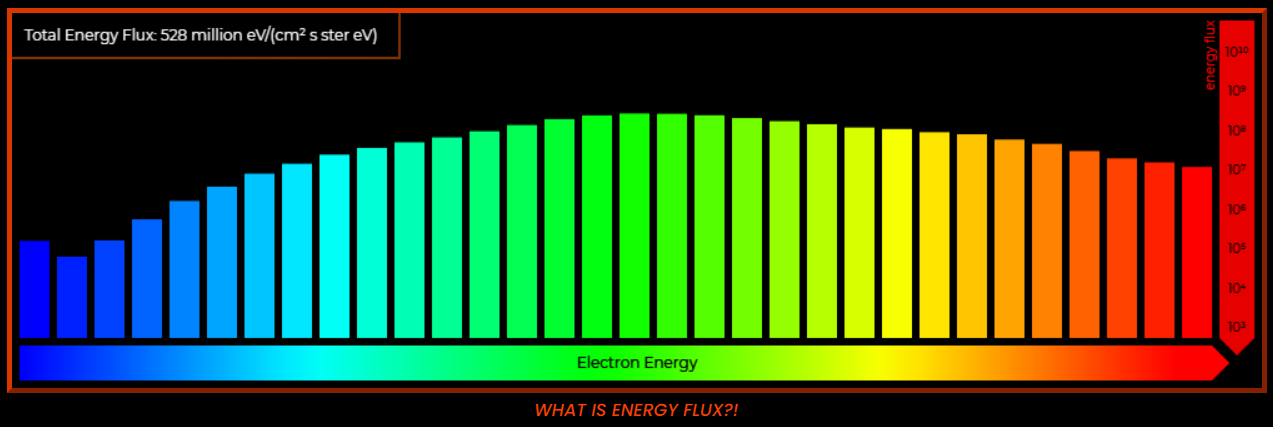
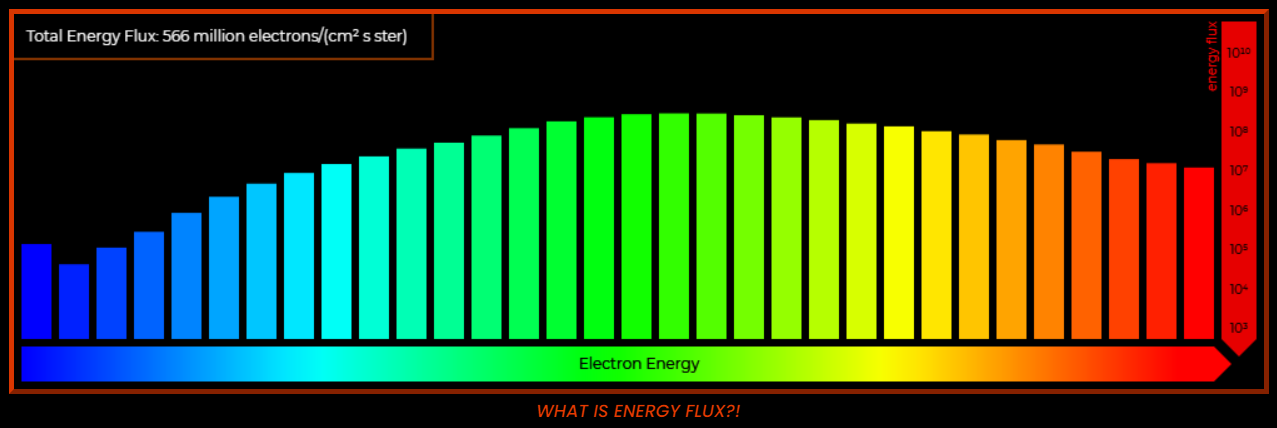
Finished revising SPAN-e
- Changed units of energy flux to be more comprehensible (electrons/(cm² s ster))
- Added a simple explanation for what energy represents
- Updated sweapelectrons.png

diff --git a/sweap_display.js b/sweap_display.js
@@ -298,10 +298,10 @@ https://codepen.io/aecend/pen/WbONyK
         ctx.fillStyle = "rgb(0,0,0)";
         ctx.fillRect(0, canvas_height-spacingh, canvas_width, spacingh);
 
-        var textw = 310;
+        var textw = 335;
         var texth = 36;
         if (sweapUnit == "wacky"){
-          textw = 290;
+          textw = 360;
         } 
         // Draws a text box
         ctx.fillStyle = "rgba(0,0,0,0.8)";
@@ -318,13 +318,13 @@ https://codepen.io/aecend/pen/WbONyK
         ctx.font = "12px Montserrat";
         ctx.textAlign = 'left';
         if (sweapUnit == "metric"){
-          ctx.fillText("Total Energy Flux: " + (totalflux/10e6).toFixed(0) + " million eV/(cm² s ster eV)", 10, 22);
+          ctx.fillText("Total Energy Flux: " + (totalflux/10e6).toFixed(0) + " million electrons/(cm² s ster)", 10, 22);
         } 
         else if (sweapUnit == "imperial"){
-          ctx.fillText("Total Energy Flux: " + (totalflux/10e6).toFixed(0) + " million eV/(cm² s ster eV)", 10, 22);
+          ctx.fillText("Total Energy Flux: " + (totalflux/10e6/2.54/2.54).toFixed(0) + " million electrons/(in² s ster)", 10, 22);
         } 
         else if (sweapUnit == "wacky"){
-          ctx.fillText("Total Energy Flux: " + (totalflux/10e6).toFixed(0) + " million eV/(cm² s ster eV)", 10, 22);
+          ctx.fillText("Total Energy Flux: " + (totalflux/10e6/1.555).toFixed(0) + " million electrons/(eardrum s ster)", 10, 22);
         } 
         // Create a linear gradient
         // The start gradient point is at x=20, y=0
@@ -706,21 +706,21 @@ instrumentselector.oninput = function(){
   if (sweapmode == "p"){ // Protons
     document.getElementById("sweapinstrument").style.backgroundImage = "url(public/SPC_instrument.jpg)";
     document.getElementById("sweapdescription").innerHTML = "The Solar Probe Cup (SPC) courageously stares straight into the sun, enduring temperatures that could melt away even steel and iron (over 3000°F / 1650°C) - all in order to measure the temperature, density, and velocity of protons and alpha particles in the solar wind (only data for protons is shown here).";
-    document.getElementById("fluxexplainer").style.opacity = 0;
+    document.getElementById("whatisflux").style.display = "none";
     slider2.max = spcList[orbit_ind2].length - 1; // changes slider range to match indices of the fits data points
     var dateind = spcdateList[orbit_ind2].indexOf(datetime);
   } 
   else if (sweapmode == "e") { // Electrons
     document.getElementById("sweapinstrument").style.backgroundImage = "url(public/SPANe_instrument.jpg)";
     document.getElementById("sweapdescription").innerHTML = "Both of the two Solar Probe ANalyzers (SPAN) measure electrons by sorting them into 32 different energy bins. SPAN-A points in the direction that the PSP is traveling, while SPAN-B points the opposite way. Together, their field of view covers almost the entire sky (except for what the heat shield blocks).";
-    document.getElementById("fluxexplainer").style.opacity = 1;
+    document.getElementById("whatisflux").style.display = "block";
     slider2.max = spaneList[orbit_ind2].length - 1; // changes slider range to match indices of the fits data points
     var dateind = spanedateList[orbit_ind2].indexOf(datetime);
   } 
   else if (sweapmode == "a") { // Alphas/Ions
     document.getElementById("sweapinstrument").style.backgroundImage = "url(public/SPANi_instrument.jpg)";
     document.getElementById("sweapdescription").innerHTML = "Unlike SPAN-B, SPAN-A measures both electrons & alpha particles (hence why it has 2 cylinder-shaped sensors, while SPAN-B only has one). It is important to note that when we say alphas, we're actually measuring all ions. But most ions in the solar wind are alphas, so here we just call them alphas.";
-    document.getElementById("fluxexplainer").style.opacity = 0;
+    document.getElementById("whatisflux").style.display = "none";
     if (orbit_ind2 >= 1 && orbit_ind2 <= 7) { // only data for orbits 2-8
       slider2.max = spaniList[orbit_ind2].length - 1; // changes slider range to match indices of the fits data points
     }
@@ -828,6 +828,17 @@ function sweapUnitDisplay(){ // shows/hides sweap unit controls
 function switchSWEAPunit(unitname){
   sweapUnit = unitname;
   update_data2();
+}
+var showFluxInfo = false;
+function fluxInfo(){ // shows/hides flux info
+  showFluxInfo = !showFluxInfo;
+  if (showFluxInfo){
+    document.getElementById("fluxinfo").style.display = "block";
+    document.getElementById("whatisflux").style.display = "none";
+  } else {
+    document.getElementById("fluxinfo").style.display = "none";
+    document.getElementById("whatisflux").style.display = "block";
+  }
 }
 // var fullscreen = False;
 // function togglefullscreen(){

diff --git a/style.css b/style.css
@@ -1867,20 +1867,42 @@ canvas {
   opacity: 1;
   transform: scale(1.03);
 }
-#fluxexplainer {
+#sweapcanvas a:link {color: rgb(255, 64, 0);}
+#sweapcanvas a:visited {color: rgb(255, 64, 0);}
+#sweapcanvas a:hover {color: rgb(255, 202, 185); text-decoration: none;}
+#sweapcanvas a:active {color: rgb(255, 202, 185); text-decoration: none;}
+
+#whatisflux {
   position: relative;
+  display: none;
   font-size: 14px;
   font-weight: 500;
   font-family: "Montserrat", sans-serif;
   z-index: 6;
-  opacity: 0;
+  opacity: 1;
   top: 3px;
-  color: rgb(255, 64, 0);
+  color: rgb(231, 58, 0);
 }
-#fluxexplainer:hover {
-  color: rgb(0, 225, 255);
+#whatisflux:hover {
+  color: rgb(255, 126, 71);
   cursor: pointer;
 }
+#fluxinfo {
+  position: relative;
+  display: none;
+  font-size: 12px;
+  font-weight: 500;
+  font-family: "Montserrat", sans-serif;
+  z-index: 6;
+  opacity: 1;
+  top: 3px;
+  color: rgb(207, 52, 0);
+}
+#fluxinfo:hover {
+  color: rgb(255, 104, 54);
+  cursor: pointer;
+}
+
 #sweapinfo a:link {color: rgb(255, 106, 56);;}
 #sweapinfo a:visited {color: rgb(255, 106, 56);}
 #sweapinfo a:hover {color: rgb(255, 162, 116);}

diff --git a/index.html b/index.html
@@ -438,14 +438,15 @@
             </div>
           </section>
 
-          <section class="hidden0" style="filter: blur(0px);">
+          <section id="sweapcanvas" class="hidden0" style="filter: blur(0px);">
             <div id="canvascontainer"></div>
             <canvas id="c"></canvas>
             <div id="fullscreenbuttoncontainer">
               <!--img src="public/fullscreen.png" alt="Fullscreen Button" id="fullscreenbutton" onclick="togglefullscreen()"-->
             </div>
             <div style="height:0px;">
-              <p id="fluxexplainer"><em>WHAT IS ENERGY FLUX?!</em></p>
+              <p id="whatisflux" onclick="fluxInfo()"><em>WHAT IS ENERGY FLUX?!</em></p>
+              <p  id="fluxinfo" onclick="fluxInfo()">TLDR: <em>It's just a value proportional to the number of electrons hitting the sensor per second <a href="https://pds-smallbodies.astro.umd.edu/holdings/ro-c-rpcies-5-esc4-v1.0/document/flux_calculation/flux_calculation.pdf" target="_blank">(read more here)</a></em></p>
             </div>
           </section>
         </div>
